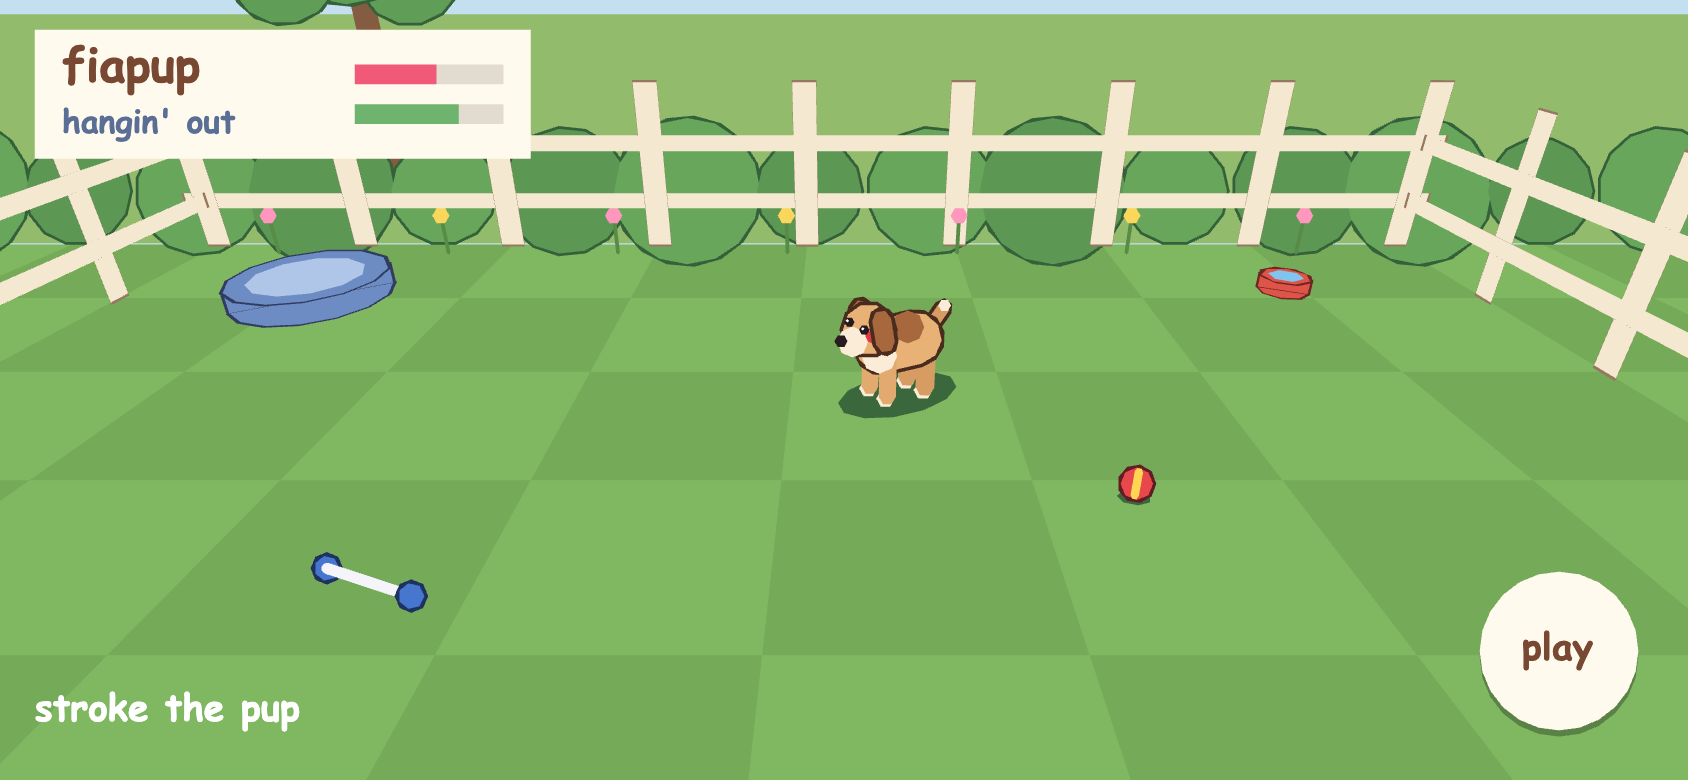
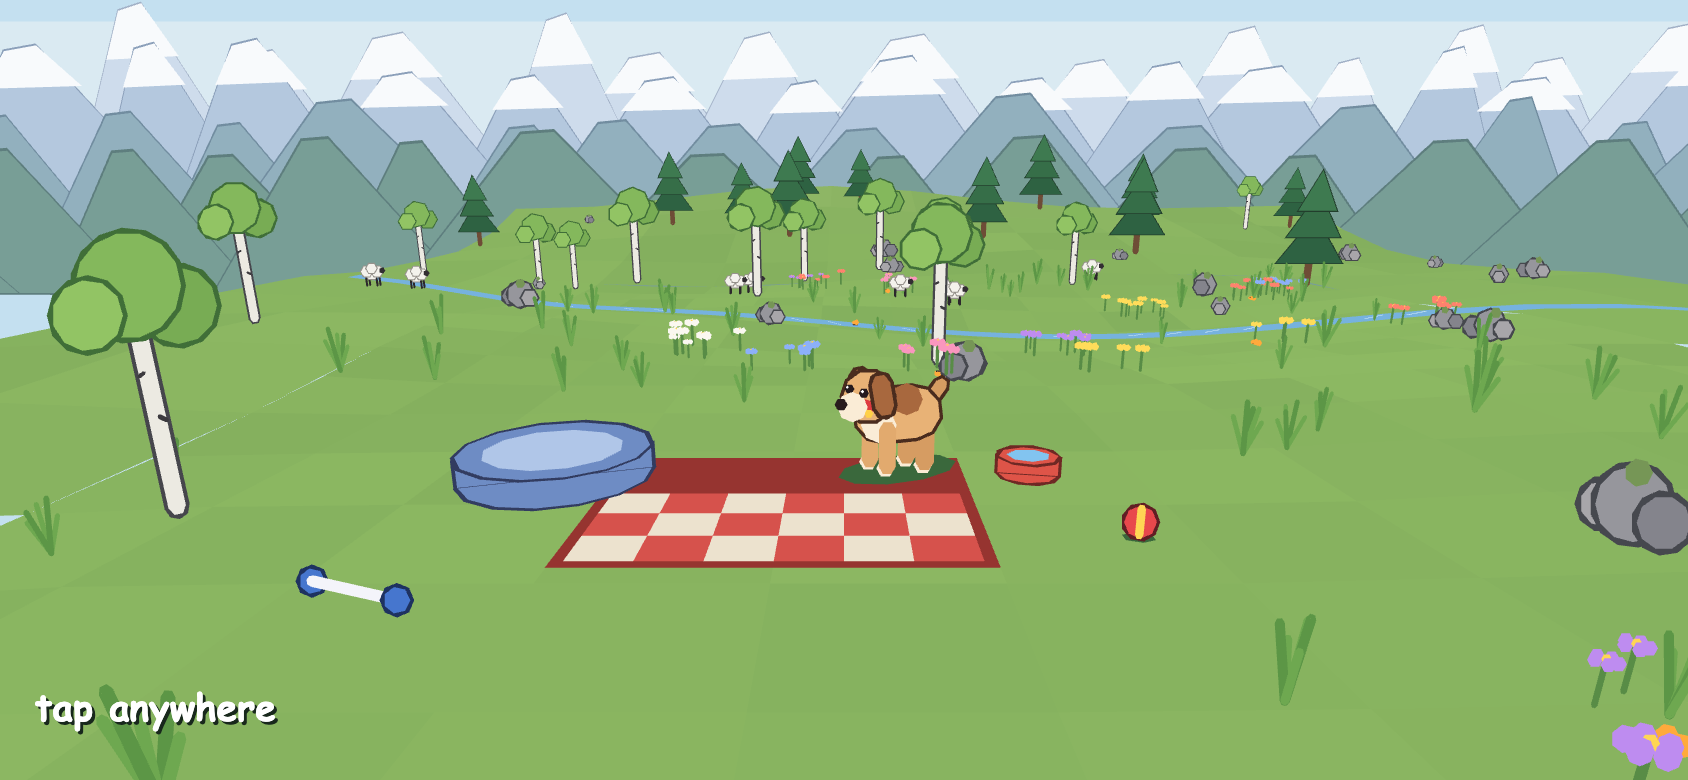
fiapup: the camera never inside a hill; near trees step aside
near chunks draw their trees one sketch each, skipped off screen and when
the camera is right on top of one; the ridges stand on the ground ahead,
which rises toward them; staged teleports bring the camera's height. the
steady program budget is 2000 numbers now, with the near trees in it.

diff --git a/xbox/fiapup/fiapup.js b/xbox/fiapup/fiapup.js
@@ -2132,7 +2132,7 @@ const petals = [[250, 150, 190], [250, 248, 240], [190, 140, 240], [255, 220, 90
 // A chunk's still things, as SHAPES records, and the things a tap can find
 // in it. Same chunk, same lod, same SEED: the same result.
 function chunkRecords(cx, cz, lod) {
-  const out = { list: [], count: 0 }, things = [], critters = [];
+  const out = { list: [], count: 0 }, things = [], critters = [], trees = [];
   const x0 = cx * CHUNK, z0 = cz * CHUNK, rng = seeded(hash3(cx, cz, SEED));
   // ground: tiles shaded by slope toward the sun, drier and paler uphill
   const n = lod ? 2 : 4, step = CHUNK / n;
@@ -2160,12 +2160,15 @@ function chunkRecords(cx, cz, lod) {
   const clear = (x, z, r = 0) => Math.hypot(x - home.x, z - home.z) > 150 + r && Math.abs(z - streamZ(x)) > 30 + r;
   const spot = () => ({ x: x0 + rng() * CHUNK, z: z0 + rng() * CHUNK });
   const north = smooth(200, 1600, -(z0 + CHUNK / 2));
-  const trees = Math.floor(rng() * (1.6 + 2.6 * north) + .35);
-  for (let k = 0; k < trees; k++) {
+  const treeCount = Math.floor(rng() * (1.6 + 2.6 * north) + .35);
+  for (let k = 0; k < treeCount; k++) {
     const p = spot();
     if (!clear(p.x, p.z, 20)) continue;
     const pine = rng() < .35 + .6 * north, s = .85 + rng() * .5;
-    stamp(out, pine ? objects.pine : objects.birch, p.x, groundY(p.x, p.z), p.z, 0, s);
+    // Near chunks keep their trees apart, drawn one by one, so a tree the
+    // camera backs into can step aside; far chunks bake them in.
+    if (lod) stamp(out, pine ? objects.pine : objects.birch, p.x, groundY(p.x, p.z), p.z, 0, s);
+    else trees.push({ pine, x: p.x, y: groundY(p.x, p.z), z: p.z, s });
   }
   const rocks = rng() < .55 ? 1 + Math.floor(rng() * 2) : 0;
   for (let k = 0; k < rocks; k++) {
@@ -2199,7 +2202,7 @@ function chunkRecords(cx, cz, lod) {
     for (let k = 0; k < many; k++)
       critters.push({ kind: "sheep", x: c.x + (rng() - .5) * 60, z: c.z + (rng() - .5) * 60, phase: rng() * 6.3 });
   }
-  return { records: Float64Array.from(out.list), count: out.count, things, critters };
+  return { records: Float64Array.from(out.list), count: out.count, things, critters, trees };
 }
 
 // Which chunks are wanted around a point, and at what lod: a window that
@@ -3391,7 +3394,7 @@ function followCamera(dt) {
   if (world.lab) { tx = p.x; tz = p.z; reach = world.lab; }
   const k = ease(2.5, dt);
   c.x = lerp(c.x, tx, k); c.z = lerp(c.z, tz, k); c.reach = lerp(c.reach, reach, k);
-  c.y = lerp(c.y, groundY(c.x, c.z), ease(2, dt));
+  c.y = lerp(c.y, groundY(c.x, c.z), ease(4, dt));
 }
 
 // How far down the camera looks: shallow enough that the mountains stand
@@ -3405,6 +3408,8 @@ function aimCamera() {
   const s = Math.sin(tilt), co = Math.cos(tilt);
   const m = camera;
   m[0] = c.x; m[1] = (c.y || 0) + 16 + s * c.reach; m[2] = c.z + co * c.reach;
+  // never inside a hill
+  m[1] = Math.max(m[1], groundY(m[0], m[2]) + 30);
   m[3] = 1; m[4] = 0; m[5] = 0;                     // right
   m[6] = 0; m[7] = co; m[8] = -s;                   // up
   m[9] = 0; m[10] = -s; m[11] = -co;                // forward
@@ -3609,7 +3614,7 @@ function emitRecords(handle, rec, place) {
 }
 const placeAt = new Float64Array(12);
 function drawWorld() {
-  const c = world.camera, y = (c.y || 0) - 40;
+  const c = world.camera, y = Math.max(c.y || 0, groundY(c.x, c.z - 1400)) - 40;
   // the far meadow and the sky's haze keep to the camera; each ridge slides
   // by its parallax, wrapping every ridgePeriod so it never ends
   placeAt.set([c.x, y, c.z, 1, 0, 0, 0, 1, 0, 0, 0, 1]);
@@ -3629,6 +3634,15 @@ function drawWorld() {
     emitRecords(chunkHandleBase + chunk.slot, chunk, placeAt);
   }
   objects.camp(inputs, identityAt(home.x, groundY(home.x, home.z), home.z), outs.camp);
+  // the near chunks' trees, one sketch each: not when off screen, and not
+  // when the camera is right on top of one (it would fill the screen)
+  for (const chunk of world.chunks.values()) for (const t of chunk.trees || []) {
+    const at = onScreen(t.x, t.y + 40 * t.s, t.z);
+    if (!at || at.k * 300 / camera[15] > 1.6 || at.x < -200 || at.x > screenW + 200 || at.y > screenH + 400 || at.y < -400) continue;
+    placeAt.set([t.x, t.y, t.z, t.s, 0, 0, 0, t.s, 0, 0, 0, t.s]);
+    const object = t.pine ? objects.pine : objects.birch;
+    object(inputs, placeAt, outs[t.pine ? "pine" : "birch"]);
+  }
 }
 
 // Far from camp, a word at the screen's edge says which way home is.
@@ -3928,13 +3942,14 @@ const fiapup = {
       if (t) {
         // start close enough that the moment arrives in a few seconds
         Object.assign(p, { x: t.x + 70, z: t.z + 60 });
-        Object.assign(w.camera, { x: p.x, z: p.z });
+        Object.assign(w.camera, { x: p.x, z: p.z, y: groundY(p.x, p.z) });
         step();
         w.tapRef = name === "stream" ? { x: t.x, z: streamZ(t.x) } : t;
         tapOn(name, t);
       }
     }
     if (name === "camp") { Object.assign(p, { x: -500, z: -300 }); step(); w.touch.mode = true; tapOn("camp"); }
+    w.camera.y = groundY(w.camera.x, w.camera.z);
     if (name === "tug") { w.hand.x = 20; w.hand.z = 60; w.hand.holding = "rope"; w.rope.heldBy = "hand"; p.x = 10; p.z = -20; }
     const script = { down: [] };
     globalThis.__fiapupScript = script;
